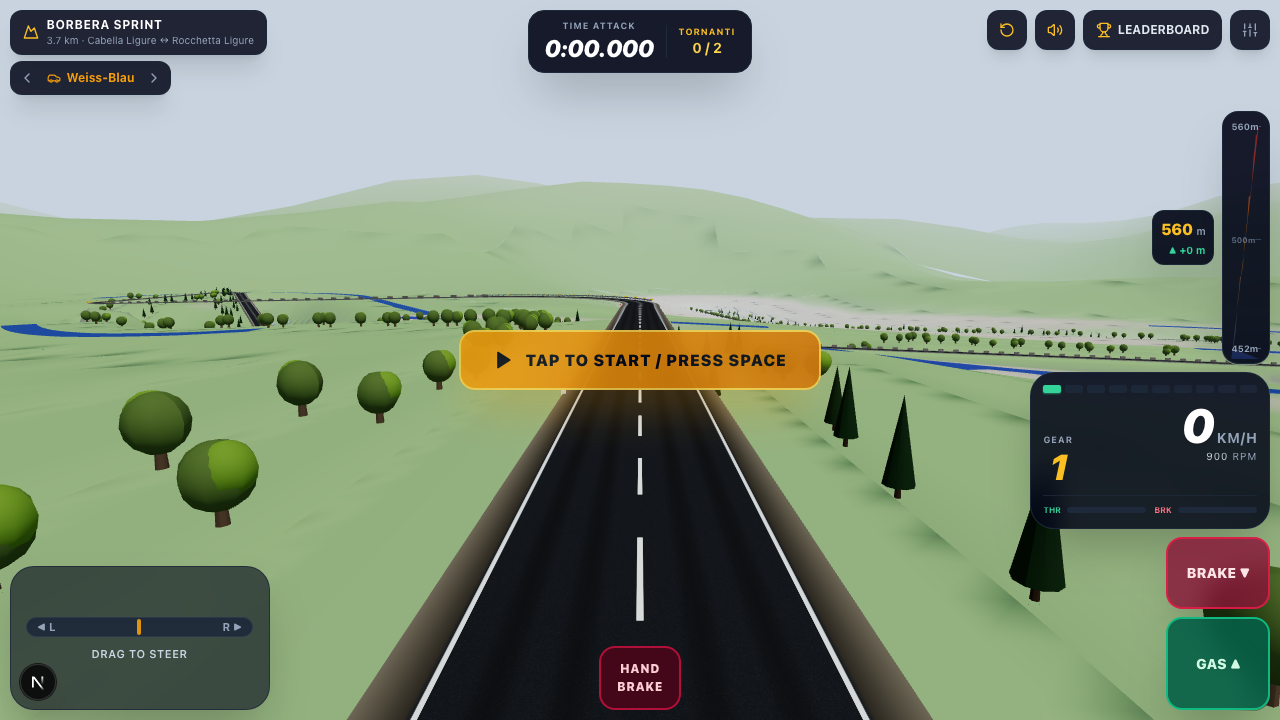
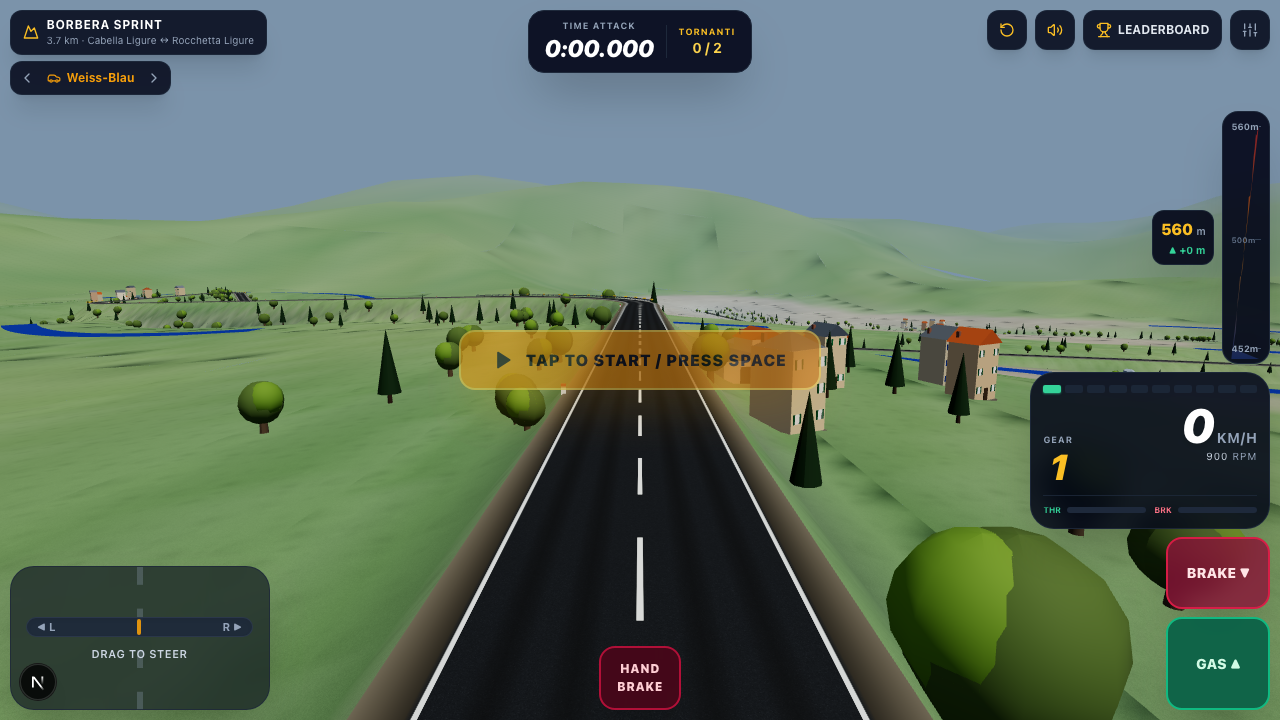
Bring the veil back for a stage switch, and refresh a stale README
TWO REGRESSIONS FROM THE ASYNC TERRAIN BUILD, both caught by looking at what the visual
harness actually produced rather than at whether it passed.

A stage switch showed a world with no ground in it. `prepareTrack` clears the outgoing
terrain before the new surface starts generating, and the loading veil was gated on
first-frame-ever, so switching stages left the road, the houses and the guardrails
hanging in an empty sky for the several seconds the build takes. The veil now tracks
whether a build is in progress at all, not whether one has ever completed.

And the visual harness was screenshotting the loading screen. It waited for the
renderer, the camera and the spline, all of which exist well before the terrain does
now, so the first pose of every run captured LOADING 5%. It waits on `hasTrack()` and on
the veil being gone — the veil specifically, because `hasTrack()` is already true from
the PREVIOUS stage during a switch and cannot tell whether the new one has finished.
Both screenshots regenerated from the fixed harness.

README. It had drifted badly for a repo that now has a public link on it:

  - The stage comparison table still showed Cresta Ebro, a stage deleted weeks ago,
    against a screenshot file that went with it. Replaced with the two real stages and
    their actual figures; `docs/screenshots/cresta-ebro.png` deleted.
  - Terrain triangle counts read 42k-82k with full-scene totals of 74k-282k "across the
[…]

diff --git a/src/ui/GameCanvas.tsx b/src/ui/GameCanvas.tsx
@@ -17,6 +17,8 @@ interface GameCanvasProps {
   onStateUpdate?: (s: EngineRenderState) => void;
   /** 0..1 across the stage build. See the async build in the effect below. */
   onBuildProgress?: (fraction: number) => void;
+  /** True while a stage is being generated — on first load AND on every stage switch. */
+  onBuildingChange?: (building: boolean) => void;
 }
 
 export const GameCanvas: React.FC<GameCanvasProps> = ({
@@ -27,6 +29,7 @@ export const GameCanvas: React.FC<GameCanvasProps> = ({
   qualityTier = "high",
   onStateUpdate,
   onBuildProgress,
+  onBuildingChange,
 }) => {
   const canvasRef = useRef<HTMLCanvasElement | null>(null);
   const rendererRef = useRef<GameRenderer | null>(null);
@@ -72,7 +75,9 @@ export const GameCanvas: React.FC<GameCanvasProps> = ({
 
     void (async () => {
       if (spline && !renderer.hasTrack()) {
+        onBuildingChange?.(true);
         await renderer.rebuildTrackAsync(spline, yieldTo, onBuildProgress);
+        onBuildingChange?.(false);
       }
       if (!cancelled) renderer.start(engine, onStateUpdate);
     })();
@@ -108,8 +113,15 @@ export const GameCanvas: React.FC<GameCanvasProps> = ({
     if (builtSplineRef.current === spline) return;
     builtSplineRef.current = spline;
     const yieldTo = () => new Promise<void>((resolve) => window.setTimeout(resolve, 0));
-    void renderer.rebuildTrackAsync(spline, yieldTo, onBuildProgress);
-  }, [spline, onBuildProgress]);
+    // The veil comes back for a stage switch too. `prepareTrack` clears the old terrain
+    // before the new one starts generating, so without this the player watches a road and
+    // a row of houses hanging in an empty sky for the several seconds the build takes.
+    onBuildingChange?.(true);
+    onBuildProgress?.(0);
+    void renderer
+      .rebuildTrackAsync(spline, yieldTo, onBuildProgress)
+      .then(() => onBuildingChange?.(false));
+  }, [spline, onBuildProgress, onBuildingChange]);
 
   // Synchronize car definition and colorway changes
   useEffect(() => {

diff --git a/scripts/visual-check.ts b/scripts/visual-check.ts
@@ -56,7 +56,15 @@ async function waitForRendererReady(page: Page): Promise<void> {
       !!(window as any).__vbCamera &&
       !!(window as any).__vbSpline &&
       typeof (window as any).__vbSpline.totalLength === "number" &&
-      (window as any).__vbSpline.totalLength > 0,
+      (window as any).__vbSpline.totalLength > 0 &&
+      // The terrain is built asynchronously in slices so the browser can paint the loading
+      // screen (see GameCanvas). The renderer, camera and spline all exist well before that
+      // finishes, so waiting on them alone captured the loading screen instead of the stage.
+      // `hasTrack()` is the signal that the surface is actually in the scene.
+      (window as any).__vbRenderer.hasTrack?.() === true &&
+      // And the loading veil is gone. `hasTrack()` alone is already true from the PREVIOUS
+      // stage during a switch, so it cannot tell whether the new stage has finished.
+      !document.querySelector('[role="status"]'),
     { timeout: 30_000 }
   );
 }
@@ -83,11 +91,17 @@ async function selectStage(page: Page, stage: StageMeta): Promise<void> {
     { timeout: 15_000 }
   );
 
-  // Let rebuildTrack() finish swapping window.__vbSpline over.
+  // Let the stage swap finish. `__vbSpline` is set at the START of the rebuild, so waiting
+  // on it alone returns while the terrain is still being generated.
   await page.waitForFunction(
     () =>
-      !!(window as any).__vbSpline && (window as any).__vbSpline.totalLength > 0,
-    { timeout: 15_000 }
+      !!(window as any).__vbSpline &&
+      (window as any).__vbSpline.totalLength > 0 &&
+      (window as any).__vbRenderer.hasTrack?.() === true &&
+      // And the loading veil is gone. `hasTrack()` alone is already true from the PREVIOUS
+      // stage during a switch, so it cannot tell whether the new stage has finished.
+      !document.querySelector('[role="status"]'),
+    { timeout: 30_000 }
   );
 }
 

diff --git a/app/page.tsx b/app/page.tsx
@@ -70,6 +70,8 @@ export default function HomePage() {
   const [slowLoad, setSlowLoad] = useState<boolean>(false);
   /** 0..1 across the stage build, reported by the renderer while it slices the terrain. */
   const [buildProgress, setBuildProgress] = useState<number>(0);
+  /** True while a stage is generating, including a switch after the first load. */
+  const [building, setBuilding] = useState<boolean>(true);
 
   // Screen Wake Lock on mobile during active gameplay (§9.2)
   useWakeLock(hudState.runState);
@@ -159,7 +161,7 @@ export default function HomePage() {
   };
 
   return (
-    <main className={`hud-root w-screen h-screen bg-slate-950 text-white font-sans select-none${sceneReady ? "" : " hud-loading"}`}>
+    <main className={`hud-root w-screen h-screen bg-slate-950 text-white font-sans select-none${sceneReady && !building ? "" : " hud-loading"}`}>
       {/* 3D Canvas. Full-bleed in landscape; the top 62% in portrait (§9.1) —
           see .hud-stage in app/globals.css. */}
       <div className="hud-stage">
@@ -172,6 +174,7 @@ export default function HomePage() {
           qualityTier={settings.qualityTier}
           onStateUpdate={handleStateUpdate}
           onBuildProgress={setBuildProgress}
+          onBuildingChange={setBuilding}
         />
 
         {/* Prominent Tap to Start Prompt — centred on the canvas, not on the
@@ -276,7 +279,7 @@ export default function HomePage() {
           Fixed and above the HUD grid (z-20) and the tap-to-start prompt (z-30), so the
           controls behind it are genuinely blurred and genuinely inert rather than merely
           unclickable: the veil itself takes the pointer events. */}
-      {!sceneReady && (
+      {(!sceneReady || building) && (
         <div
           className="vb-veil fixed inset-0 z-[60] flex flex-col items-center justify-center bg-slate-950 text-white font-mono"
           role="status"

diff --git a/README.md b/README.md
@@ -2,13 +2,15 @@
 
 A browser-based, high-performance 3D racing game built from scratch using **Next.js**, **Three.js (Vanilla WebGL)**, and a **Custom Deterministic Physics Engine**.
 
-![Salita di Cosola — stacked switchbacks](./docs/screenshots/salita-cosola.png)
-*Salita di Cosola: two tiers of a switchback with continuous hillside between them.*
+**Play it: [race108.vercel.app](https://race108.vercel.app)**
 
-| Borbera Sprint | Cresta Ebro |
+![Salita di Cosola — stacked switchbacks](./docs/screenshots/salita-cosola.png)
+*Salita di Cosola: the switchback spreads across the hillside rather than stacking, so every metre of it sits on ground.*
+
+| Borbera Sprint | Salita di Cosola |
 |---|---|
-| ![Borbera Sprint](./docs/screenshots/borbera-sprint.png) | ![Cresta Ebro](./docs/screenshots/cresta-ebro.png) |
-| Valley floor, with the Borbera and its gravel bed | High ridge road, drops to both sides |
+| ![Borbera Sprint](./docs/screenshots/borbera-sprint.png) | ![Salita di Cosola](./docs/screenshots/salita-cosola-ridge.png) |
+| 3.7 km along the valley floor, with the Borbera and its gravel bed | 2.4 km and twelve tornanti, climbing 175 m to the Cosola ridge |
 
 *Screenshots are generated reproducibly from fixed camera poses via `npm run visual-check`.*
 
@@ -28,7 +30,7 @@ Instead of relying on black-box physics libraries, the vehicle dynamics are simu
 
 ### 2. Procedural 3D Generation & Rendering
 - **Spline-Based Track Generation**: The road geometry, complex switchbacks (tornanti), and varying camber are generated dynamically at runtime from Frenet-Serret frames along mathematical splines.
-- **Unified Height-Field Terrain**: Near ground and distant mountains are one continuous surface — a single height field sampled by a single mesh builder, rather than two independently-generated surfaces that have to be kept in visual agreement. The field composes a base-altitude layer, a world-space ridge layer, and a road-carve layer that takes a minimum over every road tier within 90 m (each faded toward the surrounding landscape by its own falloff), which is what guarantees the ground stays below every nearby road, including both tiers of a stacked switchback. Ground clearance beneath the road is a property of the field itself rather than a post-process, so terrain intruding on the racing line is unrepresentable rather than merely tuned away. Geometry is built as a distance-graded quadtree — 4 m cells at the roadside easing out to 256 m at the horizon, with LOD skirts closing the seams between cell sizes — then spatially chunked so the WebGL frustum culler can still reject unseen geometry. Measured per-stage terrain triangle counts run 42k–82k (about a fifth of that is skirts), with full-scene totals (road, terrain, vegetation) of 74k–282k across the three stages.
+- **Unified Height-Field Terrain**: Near ground and distant mountains are one continuous surface — a single height field sampled by a single mesh builder, rather than two independently-generated surfaces that have to be kept in visual agreement. The field composes a base-altitude layer, a world-space ridge layer, and a road-carve layer that takes a minimum over every road tier within 90 m (each faded toward the surrounding landscape by its own falloff), which is what guarantees the ground stays below every nearby road, including both tiers of a stacked switchback. Ground clearance beneath the road is a property of the field itself rather than a post-process, so terrain intruding on the racing line is unrepresentable rather than merely tuned away. Geometry is built as a distance-graded quadtree — 4 m cells at the roadside easing out to 256 m at the horizon, with LOD skirts closing the seams between cell sizes — then spatially chunked so the WebGL frustum culler can still reject unseen geometry. Measured per-stage terrain triangle counts run 25k–42k (about a fifth of that is skirts), with full-scene totals (road, terrain, props, vegetation) of 88k–97k across the two stages. Generation is the whole of the load time — around three seconds, dominated by the carve resolving 400–900 road samples per vertex — so it runs a slice at a time with the event loop given a turn in between, which is what lets the loading screen paint and report real progress instead of freezing.
 - **Procedural Textures**: Utilizing the HTML5 Canvas API to generate high-frequency micro-detail noise maps and asphalt grain procedurally, drastically reducing network payload size without sacrificing visual fidelity.
 
 ### 3. Server-Verified Anti-Cheat
@@ -98,7 +100,7 @@ to the user.
 **4. Verify the deployment** by pointing the smoke test at it:
 
 ```bash
-SMOKE_BASE_URL=https://your-app.vercel.app npm run smoke
+SMOKE_BASE_URL=https://race108.vercel.app npm run smoke
 ```
 
 It drives a real run in a headless browser and fails on any console error, so a missing
@@ -118,7 +120,7 @@ The custom physics and rendering budgets are strictly enforced by a comprehensiv
 ```bash
 npm test
 ```
-*(Currently 169/169 physics, rendering, anti-cheat and mathematical constraint tests passing.)*
+*(Currently 219/219 physics, rendering, terrain, input, anti-cheat and mathematical constraint tests passing.)*
 
 Two browser-driven scripts cover what unit tests cannot. Both need a dev server
 (`PORT=3001 npm run dev`):
